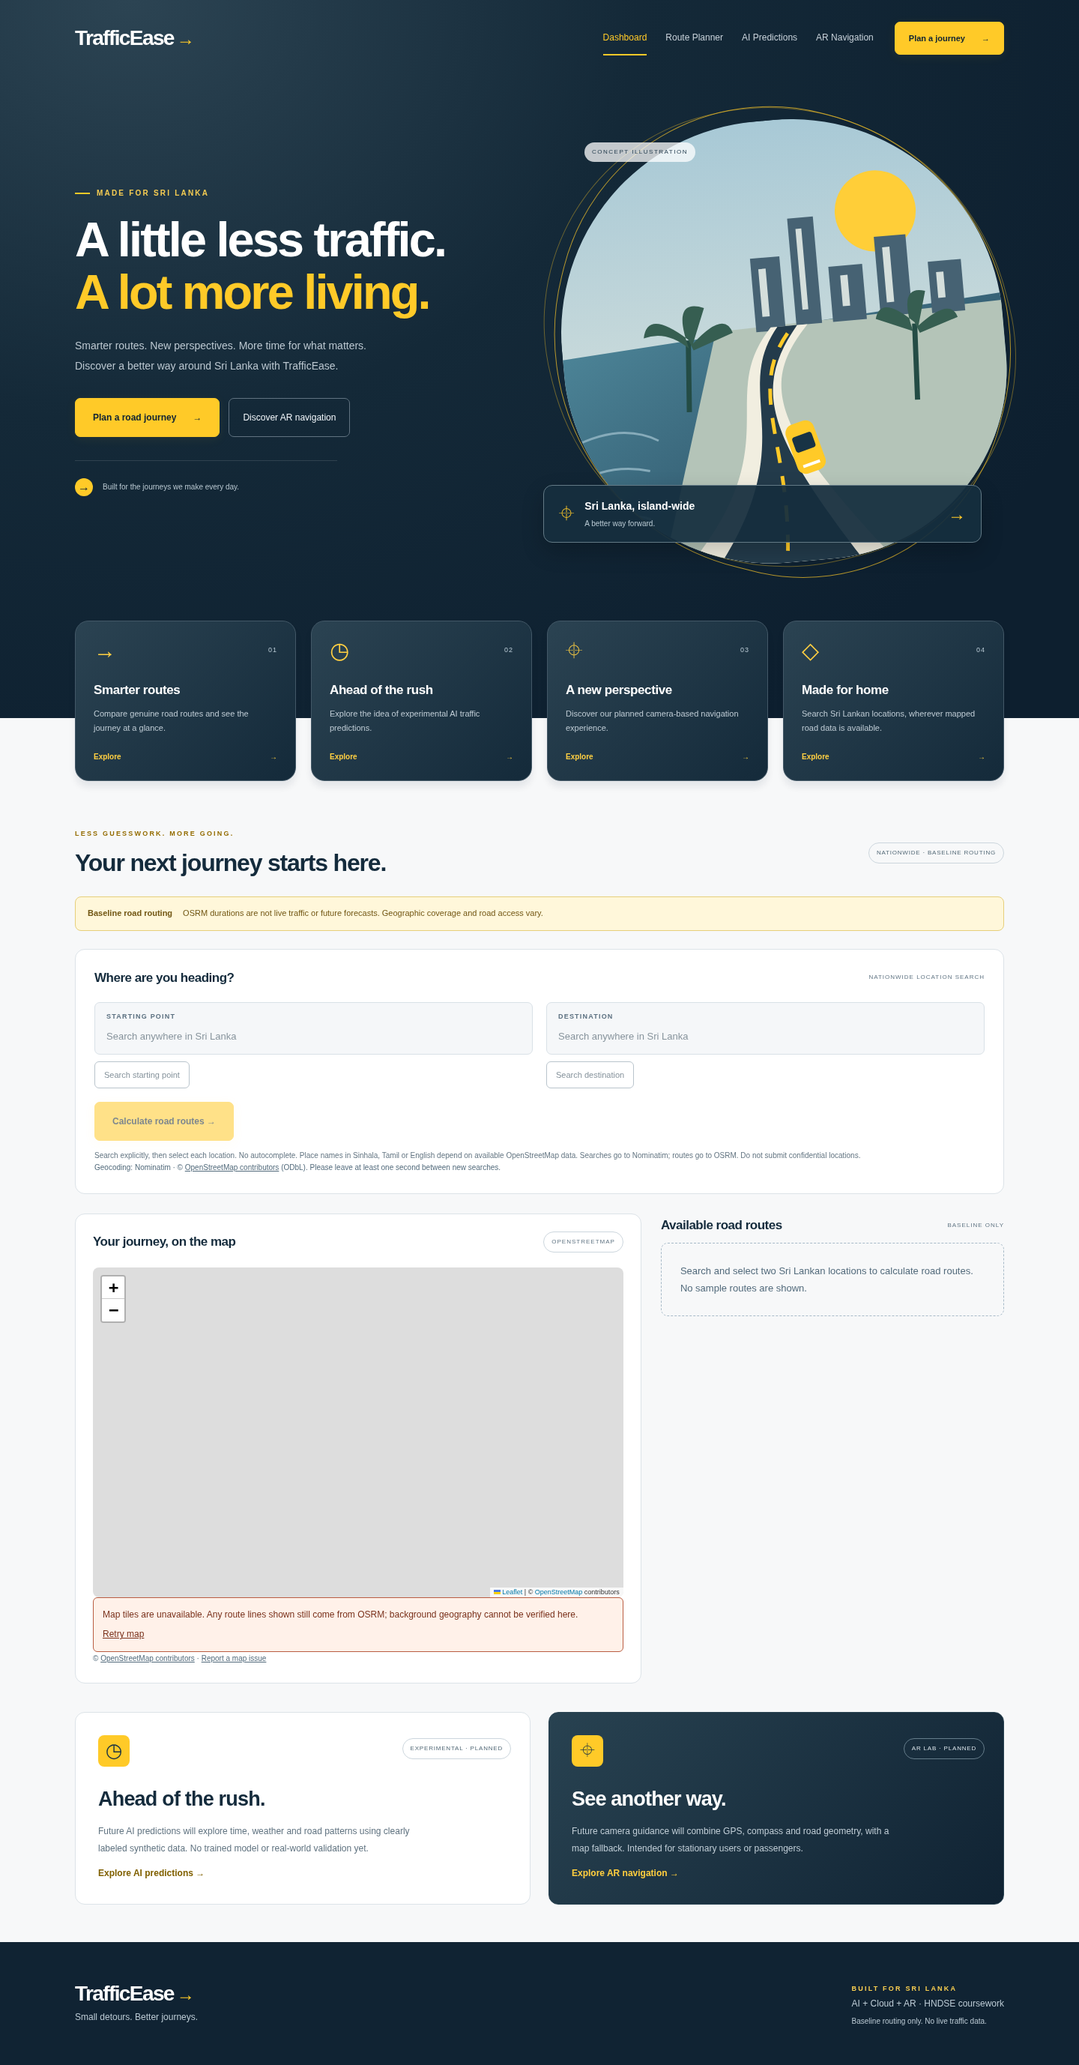
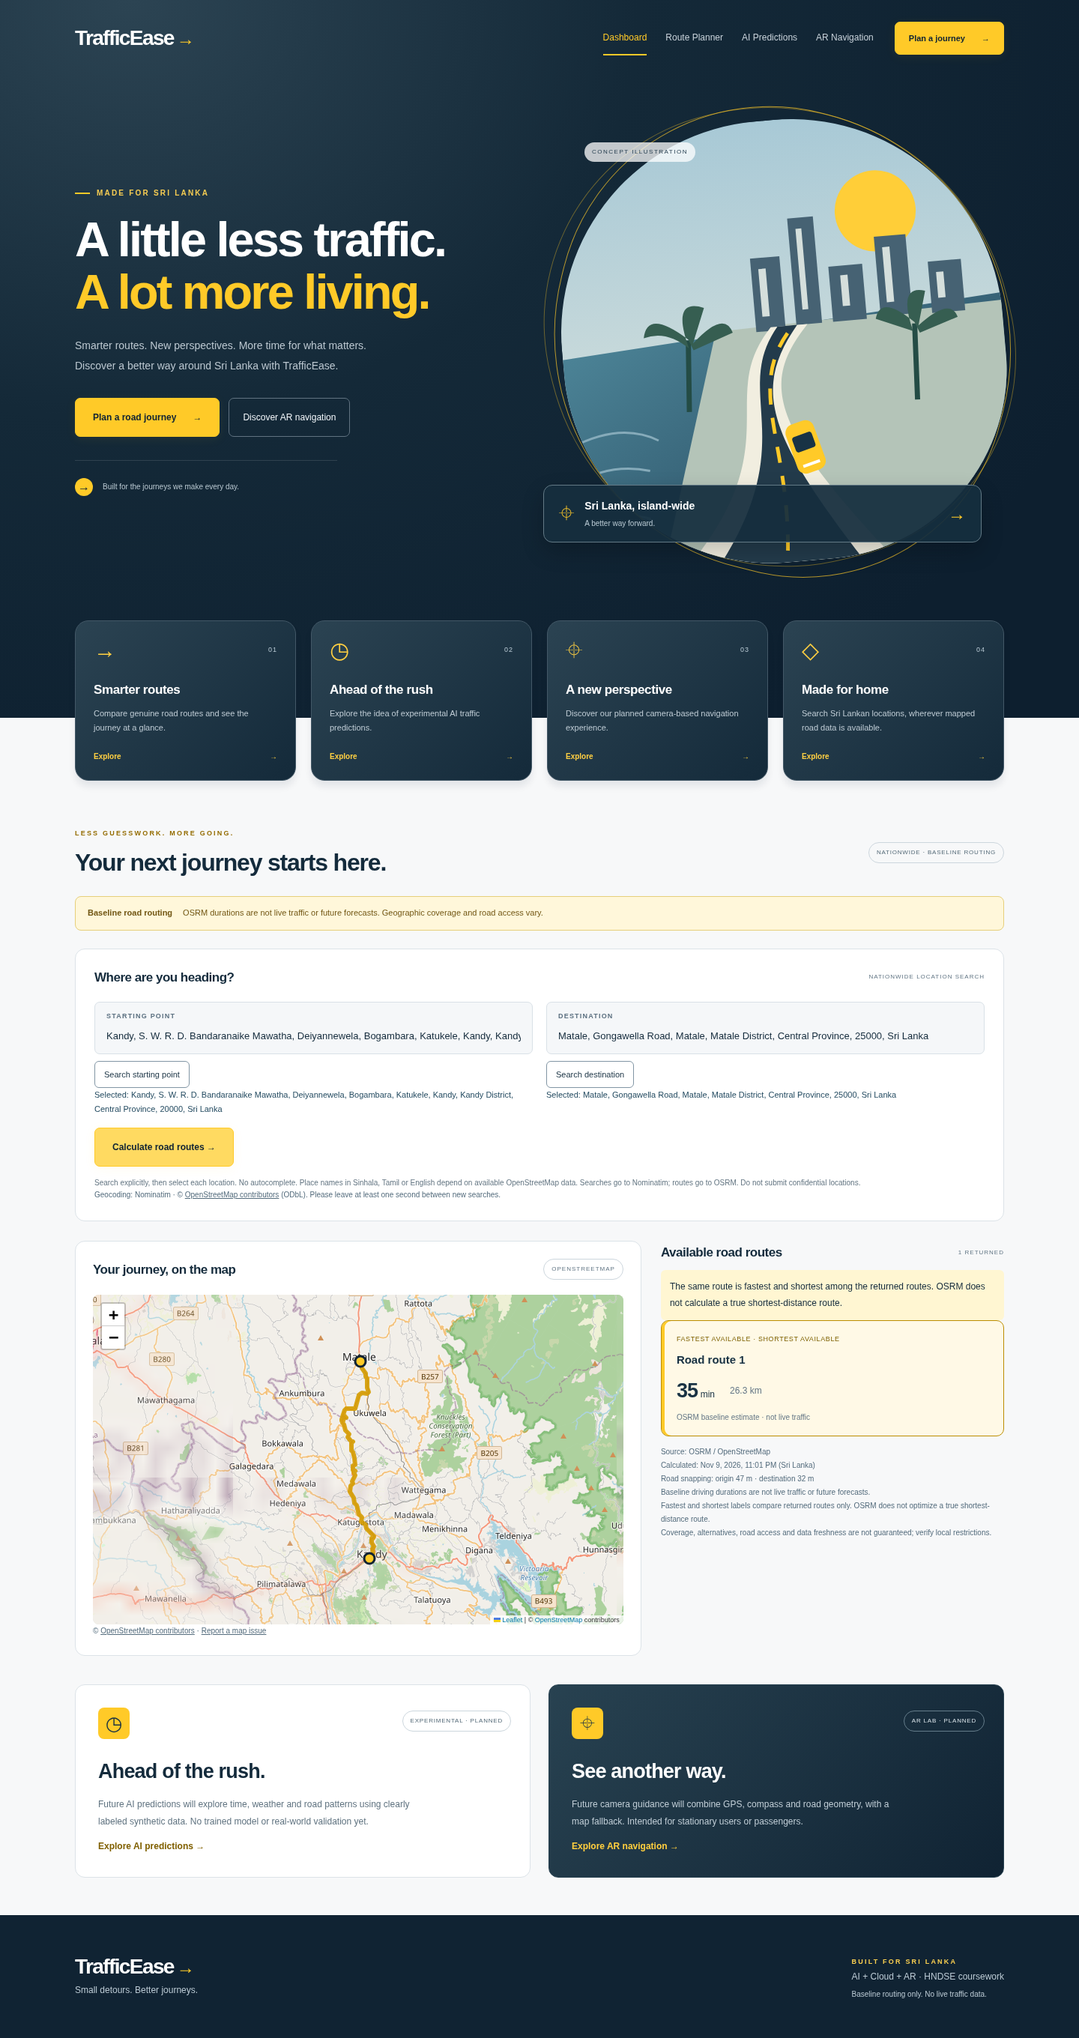
Record live M1 acceptance results and working route map screenshots

diff --git a/docs/m1-live-verification.md b/docs/m1-live-verification.md
@@ -1,0 +1,55 @@
+# Live search-to-map verification
+
+Validated on 2026-11-09 against the running Java 17 backend and React/Vite UI on `vidura`. No location, routing or tile responses were mocked. The published policy permits all three provider domains. This report supersedes earlier cloud network-denial notes.
+
+## End-to-end evidence
+
+For each journey the browser entered both queries, clicked explicit Search buttons, checked that results belonged to `LK`, selected actual returned places, submitted `/api/routes`, verified real LineString geometry and snapping ≤300 m, and observed route paths plus fully loaded OpenStreetMap tiles after Leaflet's zoom animation settled. Route comparisons remain scoped to returned routes and marked baseline, not live traffic. Each sample returned one route, so the same returned route won both comparisons naturally. Alternate-route switching is covered by the fixture-based regression suite; no live alternative was invented.
+
+| Province | Search queries (origin → destination) | Baseline road distance | Baseline duration | Snap offsets (origin / destination) | Loaded tiles | Result |
+| --- | --- | --- | --- | --- | --- | --- |
+| Central | Kandy railway station → Matale railway station | 26.3 km | 34.8 min | 46.7 / 31.9 m | 9 | Passed |
+| Northern | Jaffna railway station → Chunnakam railway station | 11.1 km | 15.2 min | 69.0 / 25.5 m | 6 | Passed |
+| Southern | Galle railway station → Matara railway station | 48.3 km | 46.7 min | 45.8 / 30.1 m | 12 | Passed |
+| Western | Colombo Fort railway station → Negombo railway station | 38.0 km | 37.2 min | 8.6 / 25.4 m | 12 | Passed |
+| Eastern | Trincomalee railway station → Batticaloa railway station | 136.0 km | 171.8 min | 9.6 / 19.5 m | 16 | Passed |
+| North Western | Kurunegala railway station → Puttalam railway station | 87.4 km | 110.2 min | 19.6 / 51.4 m | 9 | Passed |
+| North Central | Anuradhapura railway station → Polonnaruwa railway station | 106.9 km | 125.1 min | 55.0 / 19.7 m | 13 | Passed |
+| Uva | Badulla railway station → Bandarawela railway station | 29.6 km | 34.1 min | 46.2 / 13.0 m | 12 | Passed |
+| Sabaragamuwa | Ratnapura bus station → Kegalle bus station | 90.7 km | 104.6 min | 17.6 / 24.6 m | 8 | Passed |
+
+These figures are point-in-time OSRM baseline calculations, **not current traffic or forecasts**. Queries select the first actual result for an explicit station/terminal search; they do not establish town-wide access, exhaustive country coverage or language quality. Distances are rounded for the report. Provider data: © OpenStreetMap contributors (ODbL); geocoding via Nominatim, driving routes via OSRM, basemap from OpenStreetMap.
+
+The initial North Western location search returned `503 PROVIDER_UNAVAILABLE`. A later explicit location check succeeded, and a targeted full browser rerun passed. The failure was retained as evidence of public-provider availability limits; no automatic retry loop or fabricated data was added. The Eastern railway-station sample succeeded within 300 m; this does not invalidate the earlier 502 m rejection for a different approximate Trincomalee coordinate.
+
+## Checks and screenshots
+
+- Java 17 `clean verify`: **28 passed**, no failures/errors/skips.
+- Existing browser regression suite: **8 passed** (controlled fixtures, separate from the nine live journeys).
+- Vite production build: passed.
+- Live browser: nine eventual successful province-level journeys, no JavaScript runtime errors, real map images loaded and no tile-failure warning in successful runs.
+- Central journey also checked at 390 px mobile width without horizontal overflow, with the map scrolled into view and tiles repainted after resizing; existing regression checks cover 320–1440 px.
+- [Desktop screenshot](m1-desktop.png) and [mobile screenshot](m1-mobile.png) now show the live Kandy–Matale route. Screenshots were visually inspected. Earlier foundation screenshots remain historical.
+
+## Browser trust diagnosis
+
+Initial sandboxed Chromium runs rejected map HTTPS requests with `ERR_CERT_AUTHORITY_INVALID`, despite successful backend requests and curl tile HTTP 200. The browser peer chain matched the environment's supplied trusted proxy CA and verified with OpenSSL. Chromium required approved access to its writable NSS certificate database outside the command sandbox; subsequent live browser runs loaded real tiles successfully. TLS verification stayed enabled throughout: no `ignoreHTTPSErrors`, insecure switches or certificate-check bypass was used.
+
+This was test-environment access/trust handling, not an application routing defect. No application design, backend compiler setting or runtime feature change was necessary. No environment configuration was published or replaced during this task. On ordinary laptops, use their normal trusted browser/HTTPS setup; managed-cloud browser tests need access to the platform's supplied CA trust.
+
+## Repeat deliberately
+
+Start the Java backend and Vite frontend using the README. For a small, one-off live check:
+
+```sh
+cd frontend
+RUN_LIVE_ROUTING=1 PLAYWRIGHT_CHROMIUM_EXECUTABLE_PATH=/usr/bin/chromium npm run test:live
+```
+
+Use `LIVE_BASE_URL` to select another running frontend and `LIVE_OUTPUT` for local results/screenshots (default `/tmp/trafficease-live`). `LIVE_PROVINCES='North Western'` restricts the run to an exact province name; comma-separated names are supported. Run serially and deliberately, never as an ordinary CI job or periodic provider probe. Distinct searches are spaced by at least 1.2 seconds, and the backend separately limits upstream calls and caches queries. The helper exits unsuccessfully on provider failure, geometry/selection problems, missing map tiles or browser errors. It captures only public test journeys, not credentials.
+
+The helper waits for two animation frames, the end of Leaflet zoom animation and all map images to load before taking screenshots. Merely finding one old low-resolution tile was insufficient to establish a finished geographic map.
+
+## Remaining limitations
+
+Nine sampled journeys do not prove complete nationwide coverage. Sinhala/Tamil name variants, cross-province journeys and every rural/remote road have not been exhaustively validated in this run. Local road restrictions and mapping completeness still need checking. Best-effort provider availability, application-wide rate limits and production hosting review remain. Live traffic, future-time estimates, true shortest-distance optimization, AI and AR remain unsupported. No API key is required for the approved small public-service prototype; production scaling needs a reviewed hosted/self-hosted solution and shared limits.

diff --git a/docs/m1-routing.md b/docs/m1-routing.md
@@ -4,7 +4,7 @@
 
 Implemented on `vidura`: explicit nationwide Nominatim search, selected-place REST contracts, OSRM driving routes, real GeoJSON on a Leaflet geographic map, duration/distance comparisons, snapping validation, provider identification/rate limits/cache, responsive navy/yellow UI and honest loading/unavailable/error states. No hardcoded route results remain in the application. Test fixtures exist only in tests.
 
-Live OSRM requests and the packaged backend have been verified. **Live Nominatim search and OSM basemap tile rendering remain unverified in this cloud environment**: both destinations are denied by its Internet allowlist. Their integrations are implemented and tested with controlled fixtures/failure cases, not described as live end-to-end validation. M1's full acceptance gate remains open until those destinations are allowed and search/selection/map checks are repeated with real providers. AI, AR, forecasts and AWS are outside this milestone.
+Live OSRM requests and the packaged backend have been verified. **Live Nominatim search, OSRM routing and OSM basemap tile rendering have now passed together on sampled journeys in all nine provinces**. See [live verification](m1-live-verification.md) for current evidence, the transient provider failure and remaining coverage limits. AI, AR, forecasts and AWS are outside this milestone.
 
 ## Provider decisions and policies
 
@@ -27,10 +27,10 @@ Use JDK 17. Start Spring Boot as documented in the root README, then `npm run de
 Required environment Internet destinations:
 
 - `router.project-osrm.org` — currently reachable.
-- `nominatim.openstreetmap.org` — currently blocked; needed by Spring Boot.
-- `tile.openstreetmap.org` — currently blocked; needed by the browser.
+- `nominatim.openstreetmap.org` — reachable; used by Spring Boot.
+- `tile.openstreetmap.org` — reachable; used by the browser.
 
-The environment draft service also failed to load during this task; no network settings were changed or published. Add missing destinations in environment settings, then retry actual requests. On a laptop these domains must likewise be accessible. Cloud Java commands use `-Djavax.net.ssl.trustStore=/etc/ssl/certs/java/cacerts` to trust the supplied proxy CA; never disable certificate checks. Ordinary laptop installations use their normal trusted HTTPS configuration.
+The user has added and published the required network destinations. The agent did not replace or publish environment settings during verification. On a laptop these domains must likewise be accessible. Cloud Java commands use `-Djavax.net.ssl.trustStore=/etc/ssl/certs/java/cacerts` to trust the supplied proxy CA; never disable certificate checks. Ordinary laptop installations use their normal trusted HTTPS configuration.
 
 `backend/.env.example` lists optional service URLs, identification and snap threshold. Export values before starting Java; Spring does not auto-load this file. `frontend/.env.example` lists the same-origin API base and tile URL. Vite client variables are public and build-time; never place secrets there. Tiles load directly from the browser; do not use a restrictive no-referrer policy. Changing tile providers requires reviewing attribution and usage rights.
 
@@ -61,13 +61,13 @@ npm run test:e2e
 PLAYWRIGHT_CHROMIUM_EXECUTABLE_PATH=/usr/bin/chromium npm run test:e2e
 ```
 
-Current-run results:
+Initial implementation-run results (historical; superseded by the live follow-up):
 
 - Java 17 clean build and executable JAR: **28 tests passed**, no failures/errors/skips. Covers country/coordinate validation, cache and opt-out, search shape, no-route/malformed geometry/negative duration, identical and tied winners, independent comparisons, expired/unknown selections, 2776 m snapping and independent offset checks, API errors, identification, throttling and provider failures.
 - Frontend production build: passed. Browser suite: **8 tests passed**, covering explicit search/no autocomplete, selection, geometry rendering, comparison/alternatives, empty and error states, denied tiles, loading, stale-response cancellation, navigation and widths 320–1440 px. Browser API responses and tiles are controlled test fixtures; this does not establish live geocoder/map availability.
 - Real packaged backend process smoke: `/api/health` succeeds. Actual blocked Nominatim request becomes structured 503 `PROVIDER_UNAVAILABLE`, no fake results.
 - Packaged backend integration smoke: a **local fixture geocoder** supplied Kandy/Matale coordinates, then the backend called **real OSRM**, returning one route and **1862 real geometry vertices**, with snapping below 300 m. This verifies the Java HTTP/proxy/OSRM path but is not a live Nominatim end-to-end test.
 - Real OSRM coverage probes: nine province-level journeys, serial requests more than one second apart; see [m1-coverage.md](m1-coverage.md). Nine returned routes; eight met the 300 m snapping threshold. This is sampled evidence, not nationwide coverage proof.
-- Current screenshots `m1-desktop.png` / `m1-mobile.png` show the actual tile-denial fallback, not a functioning basemap or fixture route. Earlier `dashboard-*.png` are historical foundation screenshots.
+- Initial screenshots showed tile denial. Current `m1-desktop.png` / `m1-mobile.png` have been replaced with the real live Kandy–Matale route and loaded geographic tiles. Earlier `dashboard-*.png` are historical foundation screenshots.
 
-Outstanding acceptance checks: allow live geocoding and tiles, test actual name selection and map display across regions/languages, and repeat selected journeys end-to-end. Provider service limits and incomplete mapping can still prevent routes even with network access. No deployment or environment publication was performed.
+Live search/selection/routing/map checks have since passed on nine sampled provincial journeys, documented in [live verification](m1-live-verification.md). Further language-variant and cross-province checks remain. Provider service limits and incomplete mapping can still prevent routes even with network access. No deployment or environment publication was performed.

diff --git a/docs/architecture.md b/docs/architecture.md
@@ -4,7 +4,7 @@ Status: target architecture, not a claim of implemented functionality. The updat
 
 ## Inspected implementation
 
-The repository currently contains React/Vite/Tailwind UI with fixed Colombo Fort–Wellawatte sample cards and an SVG schematic; Java 17 / Spring Boot 3.5.7 with `/api/health`; FastAPI with `/health` reporting `not_trained`; and a MySQL 8 bootstrap schema. M1 now connects the UI to Java geographic search and OSRM routing endpoints with a Leaflet geographic map. Live geocoding and basemap validation remain blocked by cloud network settings; see [m1-routing.md](m1-routing.md). Database integration, traffic feeds, model training, sensors, authentication and AWS deployment remain unimplemented. Existing screenshots and test results document that foundation, not the target capabilities below.
+The repository currently contains React/Vite/Tailwind UI with fixed Colombo Fort–Wellawatte sample cards and an SVG schematic; Java 17 / Spring Boot 3.5.7 with `/api/health`; FastAPI with `/health` reporting `not_trained`; and a MySQL 8 bootstrap schema. M1 now connects the UI to Java geographic search and OSRM routing endpoints with a Leaflet geographic map. Live geocoding, OSRM routes and basemap rendering have been verified together on sampled journeys; see [m1-live-verification.md](m1-live-verification.md). Database integration, traffic feeds, model training, sensors, authentication and AWS deployment remain unimplemented. Existing screenshots and test results document that foundation, not the target capabilities below.
 
 ## Components and boundaries
 

diff --git a/README.md b/README.md
@@ -61,7 +61,7 @@ The schema creates and selects `trafficease`; the account must have database/tab
 
 ## Scope and limitations
 
-Baseline provider routing is implemented. Live geocoding and tiles are currently blocked in the cloud pending Internet allowlist changes. No real traffic, trained model, camera/compass/GPS integration, AR.js/A-Frame runtime, administrator dashboard or authentication yet. Those belong to subsequent milestones. Synthetic training and predictions must be clearly experimental and separate from any future live traffic results. AR must provide reliability fallbacks and be designed for stationary users or passengers. GPS alone cannot visually recognize roads. Do not retain provider-restricted data without permission. AWS deployment is deferred.
+Baseline provider routing is implemented. Live geocoding, OSRM routes and map tiles have now been verified together; see `docs/m1-live-verification.md` for the sampled journeys and limits. No real traffic, trained model, camera/compass/GPS integration, AR.js/A-Frame runtime, administrator dashboard or authentication yet. Those belong to subsequent milestones. Synthetic training and predictions must be clearly experimental and separate from any future live traffic results. AR must provide reliability fallbacks and be designed for stationary users or passengers. GPS alone cannot visually recognize roads. Do not retain provider-restricted data without permission. AWS deployment is deferred.
 
 See `docs/validation.md` for checks and their outcomes.
 

diff --git a/docs/milestones.md b/docs/milestones.md
@@ -20,7 +20,7 @@ Acceptance: real searches and routes for representative journeys in Western, Cen
 
 Automated tests cover parsing, coordinates/country checks, no-route responses, single/multiple alternatives, identical winners, ties, invalid numbers, upstream timeouts/quota failures and stale frontend requests. Browser checks cover search selection, map/results, loading/no-data/error states and mobile layout. External smoke checks must be identified separately from fixtures.
 
-Status: M1 integration implemented and automated checks pass; live geocoding/tiles acceptance checks remain blocked by the cloud allowlist. OSRM is reachable, with nine sampled province-level probes documented in [m1-coverage.md](m1-coverage.md). See [m1-routing.md](m1-routing.md) for endpoints, policies, test results and pending checks. No credentialed traffic provider is configured.
+Status: M1 integration implemented; automated checks pass and the complete live search-to-map flow has now passed on a sampled journey in each of nine provinces. See [live verification](m1-live-verification.md), including one transient provider failure and its successful targeted rerun. OSRM is reachable, with nine sampled province-level probes documented in [m1-coverage.md](m1-coverage.md). See [m1-routing.md](m1-routing.md) for endpoints, policies, test results and pending checks. No credentialed traffic provider is configured.
 
 ## M2 — Departure planning and licensed traffic information
 

diff --git a/docs/provider-evaluation.md b/docs/provider-evaluation.md
@@ -28,3 +28,7 @@ Next: permit `router.project-osrm.org` in environment Internet access settings f
 ## M1 update
 
 The original CONNECT 403 OSRM blocker is resolved. OSRM routing, developer-approved public Nominatim and standard OSM tiles are now integrated for this single-instance coursework prototype, with policy limits and attribution. Nominatim/tiles remain denied by the cloud allowlist; live end-to-end search/map validation is pending. See [M1 provider decisions and verification](m1-routing.md) and [coverage evidence](m1-coverage.md). Earlier notes above are historical; they do not describe the current OSRM connectivity status.
+
+## Live integration verification update
+
+The three-domain allowlist is now applied. Real Nominatim search and selection, OSRM route calculations and OSM tile rendering have been exercised through the browser and Java 17 backend without API/tile mocks. This resolves the earlier connectivity blockers; see [live verification](m1-live-verification.md) for sampled results and remaining limits. Public providers remain best-effort, single-instance prototype services. No paid API or account was added.

diff --git a/docs/validation.md b/docs/validation.md
@@ -84,3 +84,7 @@ Validation: Vite production build passed. Chromium/Playwright checks passed for 
 ## M1 nationwide routing
 
 See [M1 verification](m1-routing.md) for the current checks: 28 Java tests, 8 browser tests, frontend build, real OSRM coverage samples and packaged-backend smoke checks. Live geocoding/tiles validation remains blocked by network access; fixture-based tests do not establish live provider availability. Original foundation screenshots and test reports above are historical.
+
+## Live M1 acceptance follow-up
+
+With the published three-domain network policy, real provider browser flows were tested without mocked search/routing responses or map tiles. See [live verification](m1-live-verification.md) for the exact samples, screenshots and browser certificate setup. Java 17 clean build: 28 tests passed. Browser regression suite: 8 passed. Frontend production build passed. Historical network-denial notes above are superseded by the new live results.

diff --git a/docs/cloud-setup.md b/docs/cloud-setup.md
@@ -36,3 +36,7 @@ PY
 ```
 
 Run the backend with the same Maven options and `spring-boot:run` in place of `verify`, or run `java -jar target/trafficease-backend-0.1.0-SNAPSHOT.jar` after packaging. Node and Python startup commands are in the root README. Processes must be restarted after environment restoration.
+
+## Live browser map verification
+
+The M1 live verification helper requires the environment-provided CA to be trusted and Chromium to have access to its NSS certificate database. Sandboxed Chromium may fail with `ERR_CERT_AUTHORITY_INVALID` if it cannot initialize that database, even when curl and Java succeed. In this task an approved browser command outside the execution sandbox resolved certificate-store access while preserving full TLS validation. Do not disable certificate checks. See [live verification](m1-live-verification.md) for the evidence and deliberate, rate-limited command.
